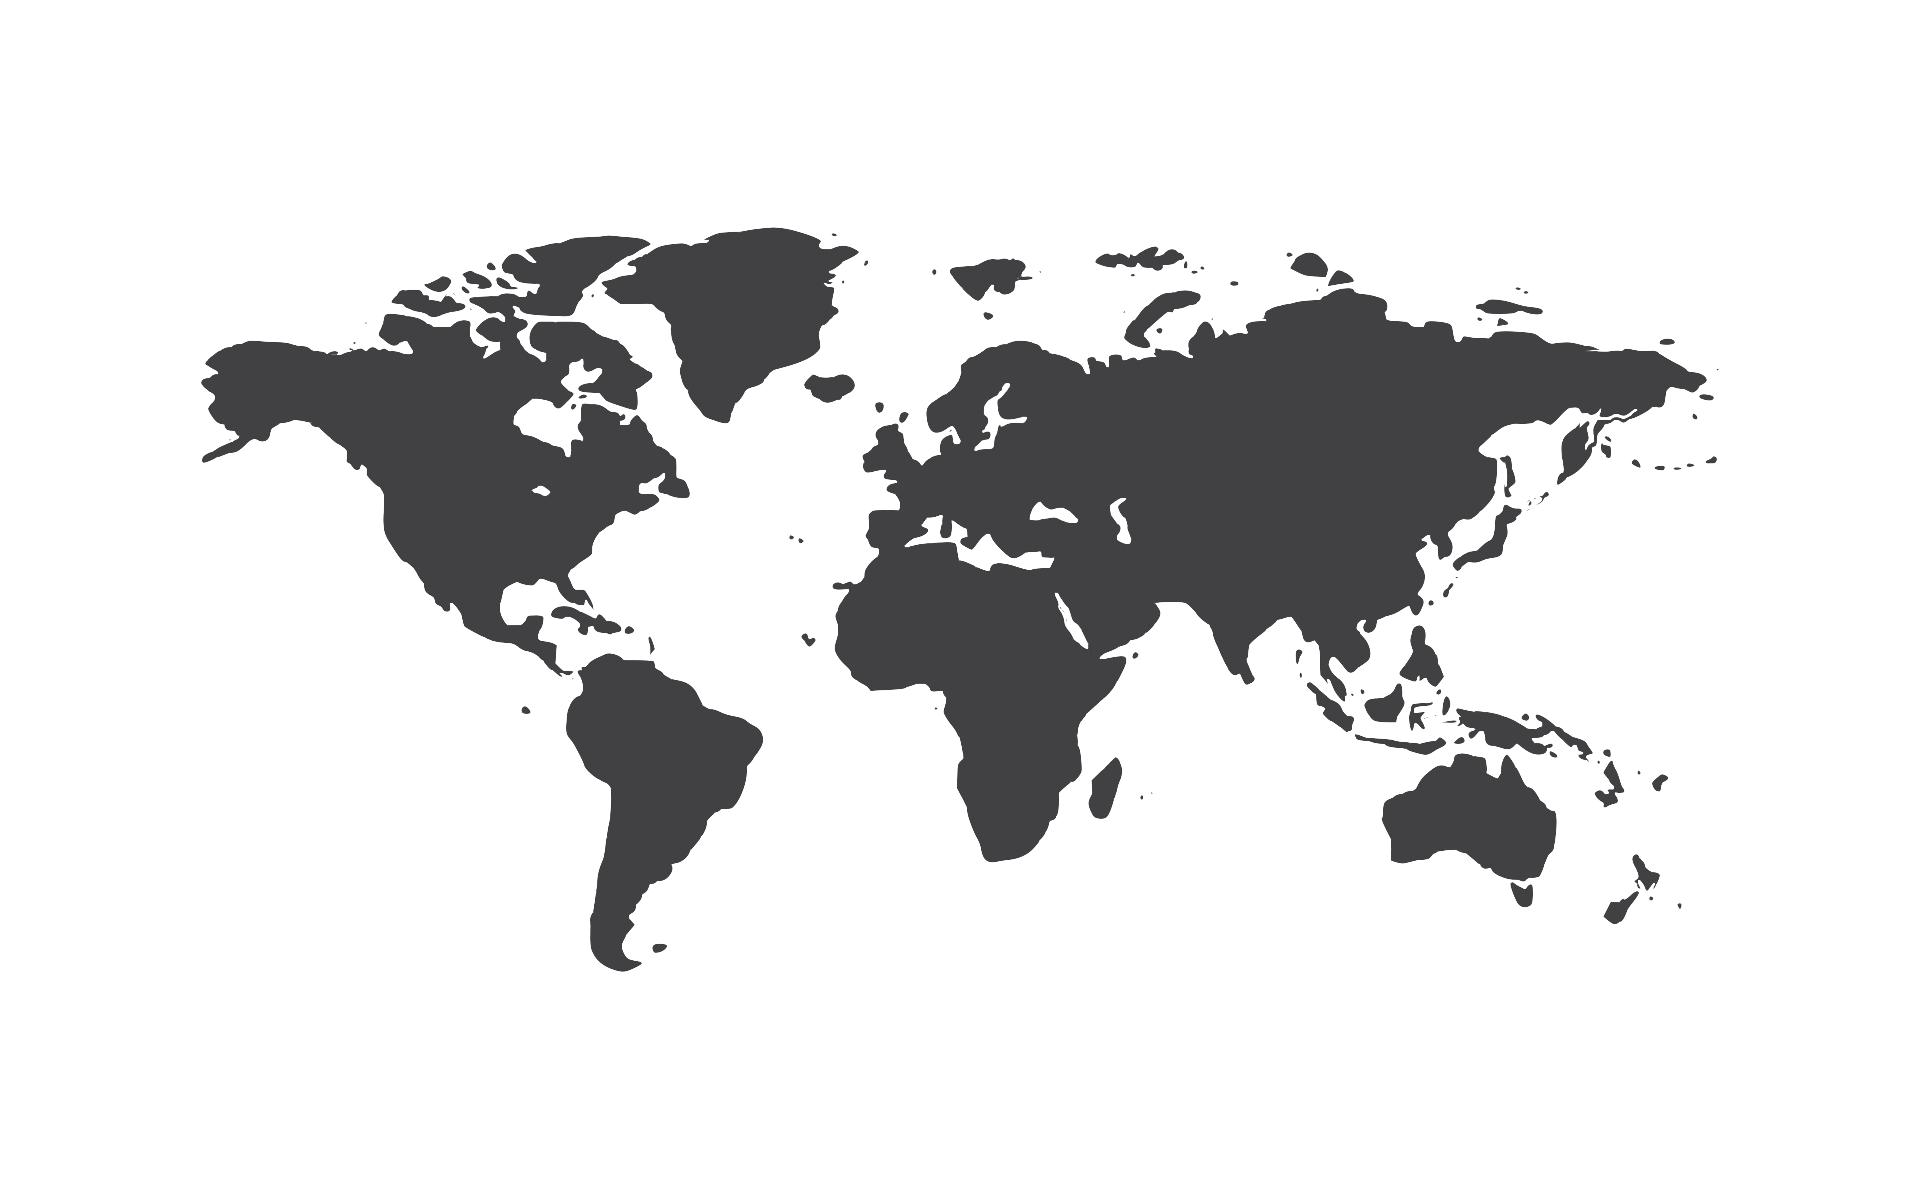
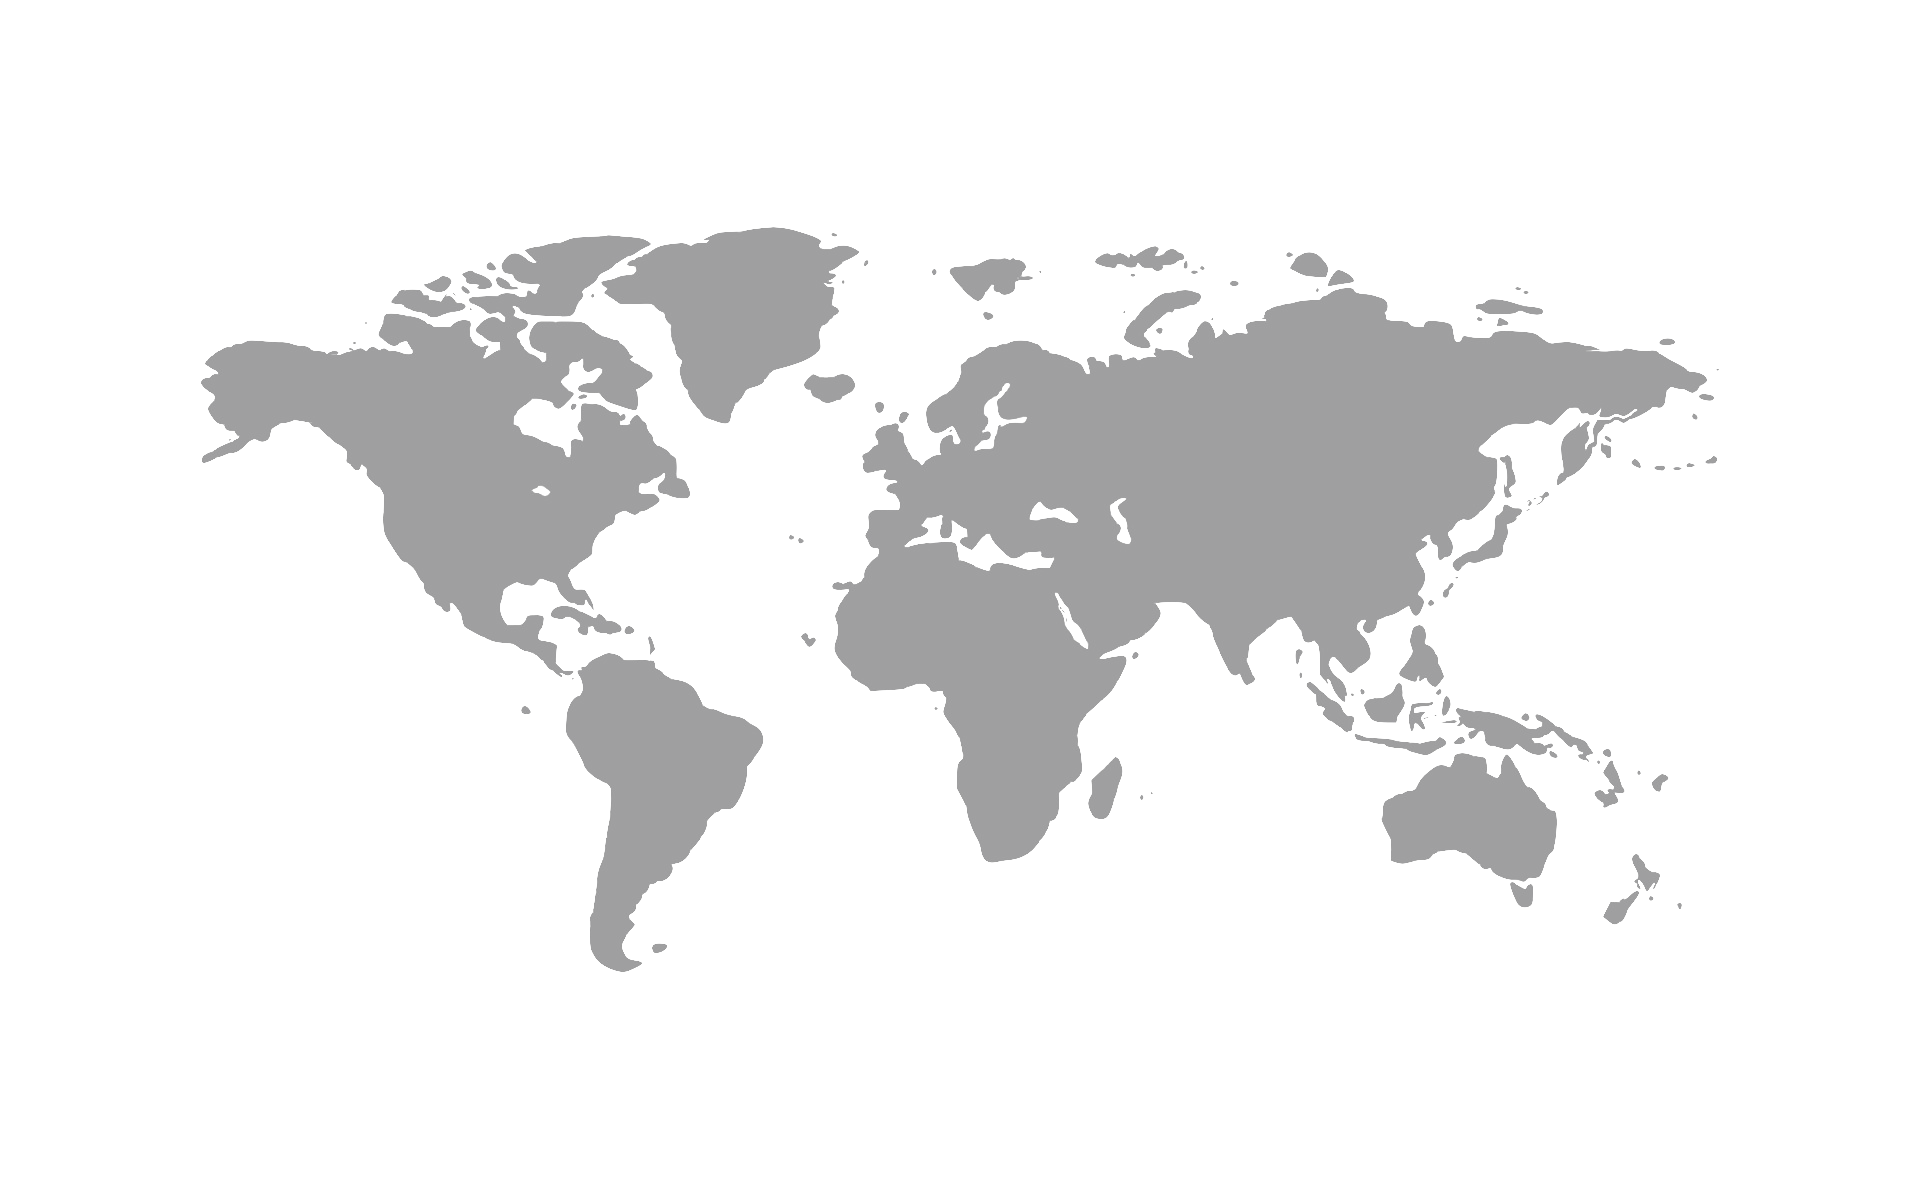
add background image

Changed region(s): [[0.0938, 0.185, 0.9062, 0.8325], [0.5, 0.2158, 0.5312, 0.2467]]

diff --git a/src/components/Dashboard.vue b/src/components/Dashboard.vue
@@ -1,6 +1,6 @@
 
 <template>
-    <div class="dashboard">
+    <div class="dashboard bg" background="src/assets/background.png" >
         <TimeZoneModals />
 
     </div>
@@ -25,4 +25,10 @@ export default {
     background-color: $dashboard-background-color;
     background-size: cover;
 }
+
+.bg {
+    background-image: url("../assets/background-opacity-20.png");
+    background-position: center;
+    background-size: cover;
+  }
 </style>
